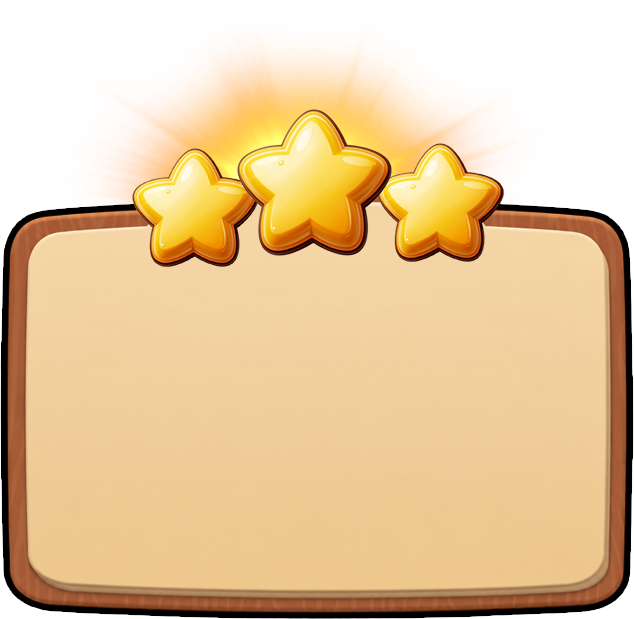
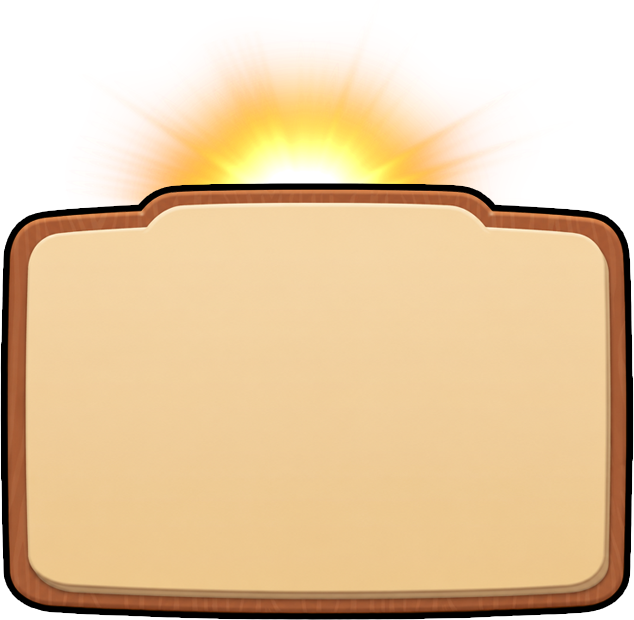
가운데 별 1.5x + X 버튼 모서리 + Lv3 좌측 치우침 완화
1) 가운데 별 500 → 750 (사이즈 1.5x)
   - y 272 → 400 (위로 잘리지 않게 아래로 이동)
   - 별이 텍스트 뒤로 가도록 z-order: addChildAt(2)
   - 새 별 PNG (155x147 고해상도) 적용됨

2) X 닫기 버튼 — 패널 우상단 모서리에 살짝 걸치게
   - 위치 (1370, 65) → (1410, 35) (모서리 점 정렬)
   - 크기 80 → 90

3) Lv3 contentShiftX -260 → -100
   - -260 은 과도해서 방이 패널에 너무 붙어 있음
   - -100 으로 완화해서 방 중앙쪽으로

4) Lv2 bgEdgeColor 보라 (이전 commit), Lv3 초록 — 모두 반영됨

diff --git a/src/scene/ResultScreen.ts b/src/scene/ResultScreen.ts
@@ -109,10 +109,11 @@ export class ResultScreen extends Container {
   }
 
   private async renderStars(stars: number): Promise<void> {
-    // 별 사이즈 — 좌/우 420, 가운데 500
+    // 별 사이즈 — 좌/우 420, 가운데 750 (가운데 1.5x)
+    // 가운데 별이 크니까 y 도 약간 아래로 옮겨 화면 위로 잘리지 않게
     const starConfigs = [
       { x: 510 + 189 * 1.42, y: 20.7 + 203 * 1.42, size: 420 },
-      { x: 510 + 317 * 1.42, y: 20.7 + 177 * 1.42, size: 500 },
+      { x: GAME_WIDTH / 2,    y: 400,                size: 750 },
       { x: 510 + 435 * 1.42, y: 20.7 + 200 * 1.42, size: 420 },
     ];
 
@@ -147,7 +148,8 @@ export class ResultScreen extends Container {
       }
       star.position.set(cfg.x, cfg.y);
       star.scale.set(0);
-      this.addChild(star);
+      // 별을 패널 바로 위에, 텍스트 아래에 (index 2 = panel 다음)
+      this.addChildAt(star, Math.min(2, this.children.length));
 
       // 별 등장 애니메이션 (순차) — 채워진 별만 사운드
       const delay = 200 + i * 200;
@@ -248,11 +250,11 @@ export class ResultScreen extends Container {
 
   /** popup_bg 우상단 모서리에 X 닫기 버튼 — 클릭 시 home 동작 */
   private renderCloseButton(): void {
-    // 패널: 표시 900×879, 중앙 (960, 460), 우상단 ≈ (1410, 21)
-    // X는 모서리 안쪽으로 살짝 (1370, 65)
+    // 패널: 표시 900×879, 중앙 (960, 460), 우상단 모서리 (1410, 20)
+    // X 버튼은 모서리에 살짝 걸치게 (반쯤 밖)
     const btn = new Container();
-    btn.position.set(1370, 65);
-    const SIZE = 80;
+    btn.position.set(1410, 35);
+    const SIZE = 90;
     Assets.load('./images/popup_x.png')
       .then((tex: Texture) => {
         const sprite = new Sprite(tex);

diff --git a/src/data/lv3-demo.ts b/src/data/lv3-demo.ts
@@ -99,8 +99,8 @@ export const LV3_DEMO: SceneData = {
     position: { x: 425, y: 758 },
     size: 200,
   },
-  // 좌측 패널 ↔ 방 사이 초록 여백 최소화 (방 콘텐츠 좌측 정렬)
-  contentShiftX: -260,
+  // 방 콘텐츠 중앙쪽으로 (이전 -260 은 너무 좌측)
+  contentShiftX: -100,
   // 방 이미지 가장자리 색과 동일 (#0fb97e — 초록)
   bgEdgeColor: 0x0fb97e,
 };
